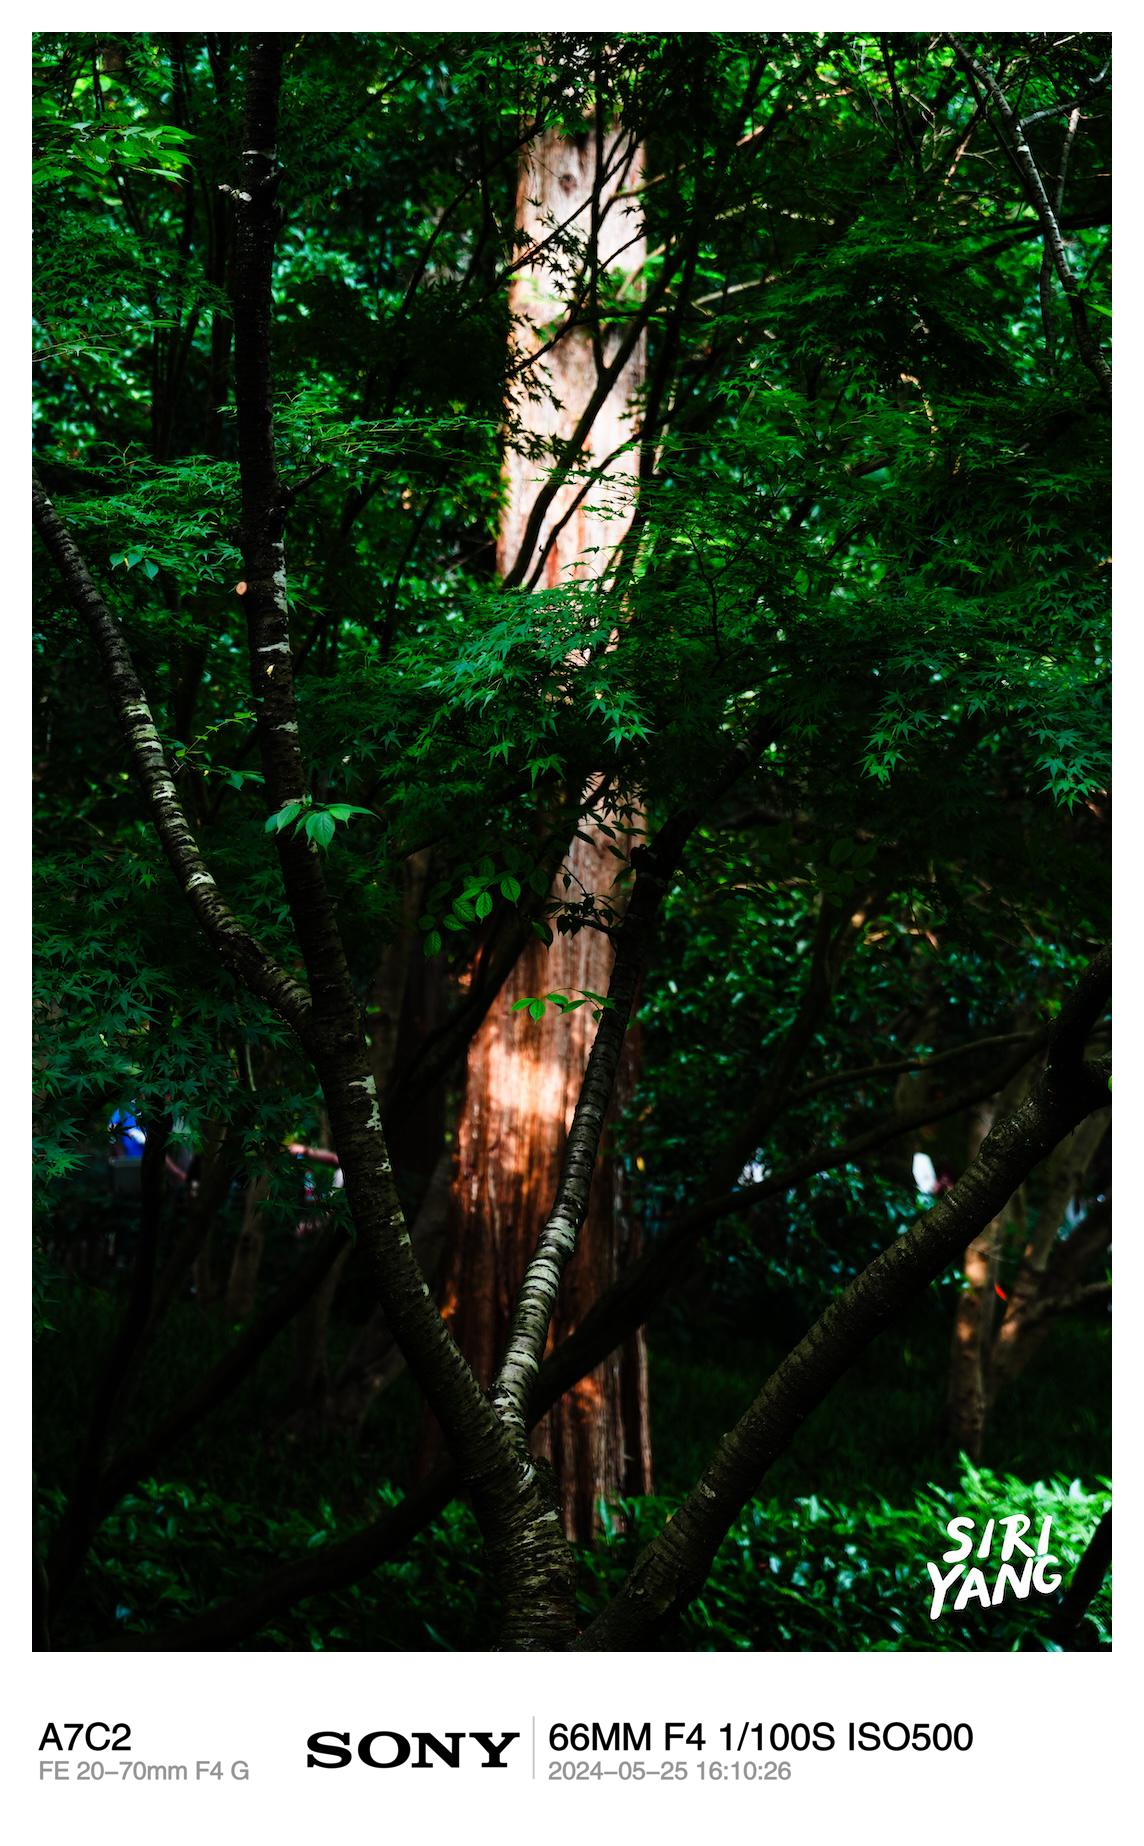
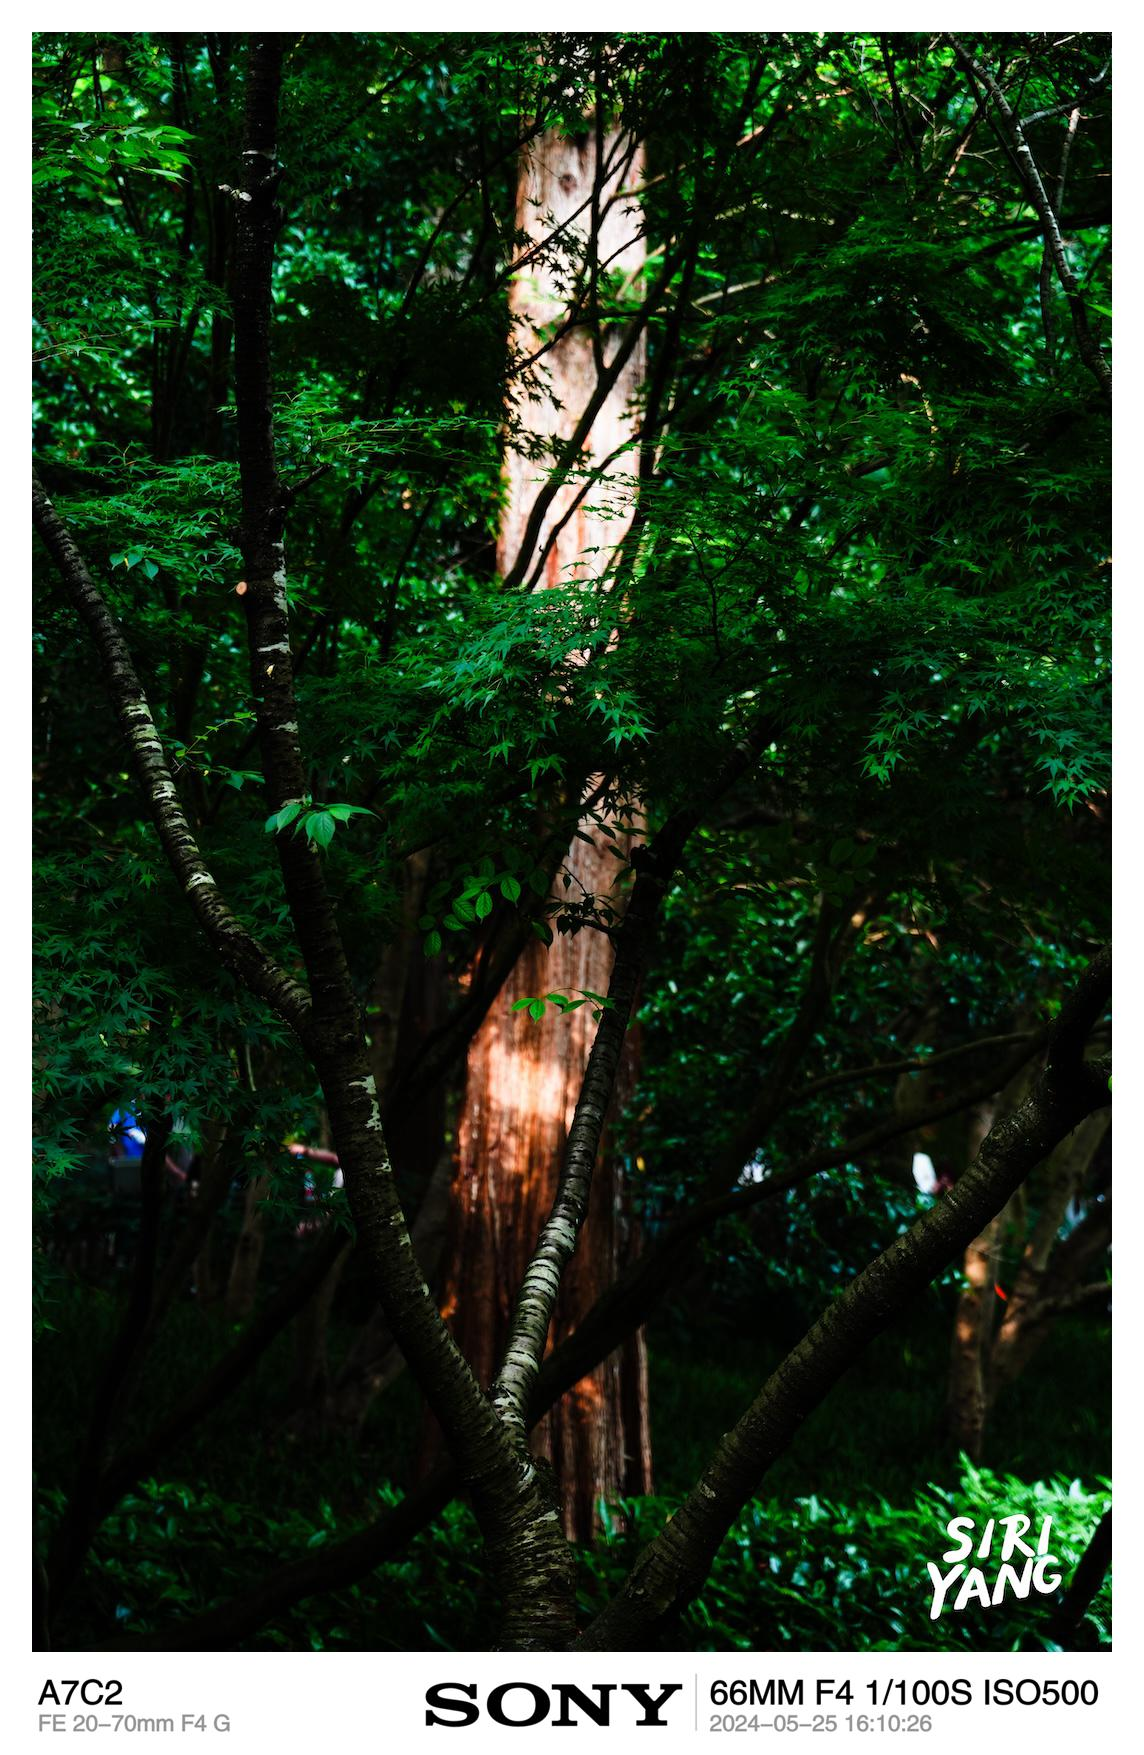
更新：更新代码逻辑

diff --git a/CameraWatermarker.py b/CameraWatermarker.py
@@ -2,11 +2,9 @@ import exifread
 from PIL import Image,ImageDraw, ImageFont
 
 
-def get_image_meta_info(img_file):
+def get_image_meta_info(img_file,str_map={}):
 
     meta_dic={}
-
-    str_map = {'ILCE-7CM2':'A7C2'}
 
     with open(img_file, 'rb') as img_file:
 
@@ -65,7 +63,7 @@ def get_image_meta_info(img_file):
         
     return meta_dic
 
-def camera_watermarker(img_file,output_dir,output_suffix,border=0.03):
+def camera_watermarker(img_file,output_dir='./',output_suffix='',str_map={},border=0.03):
     
     try:
         org_img=Image.open(img_file)
@@ -75,7 +73,7 @@ def camera_watermarker(img_file,output_dir,output_suffix,border=0.03):
     finally:
         pass
 
-    meta_dic=get_image_meta_info(img_file)
+    meta_dic=get_image_meta_info(img_file,str_map)
     print(meta_dic)
     # meta_dic['f_number']='F11'
     # meta_dic['iso'] = 'ISO12800'
@@ -86,16 +84,11 @@ def camera_watermarker(img_file,output_dir,output_suffix,border=0.03):
     org_img_h = org_img.size[1]
     border_w = int(org_img_w * border)
     wm_width = org_img_w # 原始宽度
-    wm_heigh = int(org_img_h*0.1) # 原始照片高度的 10%
+    wm_heigh = int(org_img_h*0.06) # 原始照片高度的百分比
     res_img_w = wm_width + border_w*2
     res_img_h = org_img_h+wm_heigh+border_w*2 # 原始高度+水印信息高度+1倍边框高度
 
     # print(img.format,img.size,img.mode)
-
-    res_img=Image.new(org_img.mode,(res_img_w,res_img_h),'white')
-
-    # 绘制原始图片
-    res_img.paste(org_img,(border_w,border_w))
 
     # 水印信息绘制
     # 字体参数配置
@@ -107,74 +100,100 @@ def camera_watermarker(img_file,output_dir,output_suffix,border=0.03):
     color2=(150,150,150)
     color3=(200,200,200)
 
-    # 设备型号
+    # 左侧水印信息绘制
+    left_wm_img_w = 800
+    left_wm_img_h = 250
+    left_wm_img=Image.new(org_img.mode,(left_wm_img_w,left_wm_img_h),'white')
+    left_wm_img_draw = ImageDraw.Draw(left_wm_img)
+
+     # 设备型号
     device_model_x = 20
     device_model_y = 20
-    device_model_w = len(meta_dic['device_model']) * font_size_1
+    device_model_w,device_model_h = left_wm_img_draw.textsize(meta_dic['device_model'],font1) 
 
     # 镜头型号
     lens_model_x = device_model_x
     lens_model_y = device_model_y+130
-    lens_model_w = len(meta_dic['lens_model']) * font_size_2
+    lens_model_w,lens_model_h = left_wm_img_draw.textsize(meta_dic['lens_model'],font2) 
 
-    # 左侧水印信息绘制
-    left_wm_img_width = 800
-    left_wm_img_heigh = 250
-    left_wm_img=Image.new(org_img.mode,(left_wm_img_width,left_wm_img_heigh),'white')
+    left_wm_img_w = 40 + (device_model_w if device_model_w>lens_model_w else lens_model_w)
+    left_wm_img=left_wm_img.resize((left_wm_img_w,left_wm_img_h))
     left_wm_img_draw = ImageDraw.Draw(left_wm_img)
+
     left_wm_img_draw.text((device_model_x, device_model_y), meta_dic['device_model'], font=font1,stroke_width=1, fill=color1)
     left_wm_img_draw.text((lens_model_x, lens_model_y), meta_dic['lens_model'], font=font2,stroke_width=1, fill=color2)
 
     # left_wm_img.show()
 
     # 右侧水印信息绘制
-    right_wm_img_width = 2600
-    right_wm_img_heigh = 250
-    right_wm_img=Image.new(org_img.mode,(right_wm_img_width,right_wm_img_heigh),'white')
+    right_wm_img_w = 2600
+    right_wm_img_h = 250
+    right_wm_img=Image.new(org_img.mode,(right_wm_img_w,right_wm_img_h),'white')
     right_wm_img_draw = ImageDraw.Draw(right_wm_img)
 
     # 绘制水印 logo
     img_sony_logo = Image.open('./src/sony_logo.jpg')
-    img_sony_logo_w = img_sony_logo.size[0]
-    img_sony_logo_h = img_sony_logo.size[1]
+    img_sony_logo_h = right_wm_img_h - 40
+    img_sony_logo_w = int(img_sony_logo.size[0] * img_sony_logo_h / img_sony_logo.size[1])
     img_sony_logo_x = 20
-    img_sony_logo_y = int((right_wm_img_heigh-img_sony_logo.size[1])/2)
-    right_wm_img.paste(img_sony_logo,(img_sony_logo_x,img_sony_logo_y))
+    img_sony_logo_y = 20
+    img_sony_logo = img_sony_logo.resize((img_sony_logo_w,img_sony_logo_h))
 
     # 绘制分割线
-    split_line_x= img_sony_logo_w+int(left_wm_img_heigh*0.2)
+    split_line_x= img_sony_logo_w+int(left_wm_img_h*0.2)
     split_line_y= 20
-    split_line_w= int(right_wm_img_heigh*0.02)
-    split_line_h= int(right_wm_img_heigh*0.8)
-    right_wm_img_draw.rectangle((split_line_x,split_line_y,split_line_x+split_line_w,split_line_y+split_line_h),fill=color3)
-
-    img_exposure_value_text = meta_dic['focal_length']+' '+meta_dic['f_number']+' '+meta_dic['exposure_time']+' '+meta_dic['iso']
+    split_line_w= int(right_wm_img_h*0.02)
+    split_line_h= int(right_wm_img_h*0.8)
 
     # 拍摄参数
-    img_exposure_value_x = split_line_x + int(left_wm_img_heigh*0.2)
+    img_exposure_value_text = meta_dic['focal_length']+' '+meta_dic['f_number']+' '+meta_dic['exposure_time']+' '+meta_dic['iso']
+    img_exposure_value_x = split_line_x + int(left_wm_img_h*0.2)
     img_exposure_value_y = device_model_y
-    right_wm_img_draw.text((img_exposure_value_x, img_exposure_value_y), img_exposure_value_text, font=font1,stroke_width=1, fill=color1)
+    img_exposure_value_w , img_exposure_value_h = right_wm_img_draw.textsize(img_exposure_value_text,font1)
 
     # 拍摄日期
     date_time_x = img_exposure_value_x
     date_time_y = lens_model_y
+    date_time_w , date_time_h = right_wm_img_draw.textsize(meta_dic['date_time'],font2)
+
+    right_wm_img_w = 40 + img_sony_logo_w + split_line_w + int(left_wm_img_h*0.4) + (img_exposure_value_w if img_exposure_value_w>date_time_w else date_time_w)
+    right_wm_img=right_wm_img.resize((right_wm_img_w,right_wm_img_h))
+    right_wm_img_draw = ImageDraw.Draw(right_wm_img)
+    
+    right_wm_img.paste(img_sony_logo,(img_sony_logo_x,img_sony_logo_y))   
+    right_wm_img_draw.rectangle((split_line_x,split_line_y,split_line_x+split_line_w,split_line_y+split_line_h),fill=color3)
+    right_wm_img_draw.text((img_exposure_value_x, img_exposure_value_y), img_exposure_value_text, font=font1,stroke_width=1, fill=color1)
     right_wm_img_draw.text((date_time_x, date_time_y), meta_dic['date_time'], font=font2,stroke_width=1, fill=color2)
 
     # right_wm_img.show()
 
-    # 绘制水印到输出图片
-    left_wm_img=left_wm_img.resize((int(left_wm_img_width*wm_heigh/left_wm_img_heigh),wm_heigh))
-    right_wm_img=right_wm_img.resize((int(right_wm_img_width*wm_heigh/right_wm_img_heigh),wm_heigh))
-    if left_wm_img.size[0] + right_wm_img.size[0] > wm_width :
-        new_wm_img = Image.new(org_img.mode,(left_wm_img.size[0] + right_wm_img.size[0] + border_w,wm_heigh),'white')
-        new_wm_img.paste(left_wm_img,(0,0))
-        new_wm_img.paste(right_wm_img,(left_wm_img.size[0] + border_w,0))
-        new_wm_img=new_wm_img.resize((wm_width,int(new_wm_img.size[1] * wm_width/new_wm_img.size[0])))
-        res_img.paste(new_wm_img,(border_w, int(border_w + org_img_h + (wm_heigh+border_w-new_wm_img.size[1])/2)))
-    else :
-        res_img.paste(left_wm_img,(border_w,int(border_w + org_img_h + (wm_heigh+border_w-wm_heigh)/2)))
-        res_img.paste(right_wm_img,(wm_width - border_w-right_wm_img.size[0],int(border_w + org_img_h + (wm_heigh+border_w-wm_heigh)/2)))
+    # 合并左右水印
+    left_wm_img_w = int(left_wm_img_w*wm_heigh/left_wm_img_h)
+    left_wm_img_h = wm_heigh
+    left_wm_img=left_wm_img.resize((left_wm_img_w,left_wm_img_h))
+    right_wm_img_w = int(right_wm_img_w*wm_heigh/right_wm_img_h)
+    right_wm_img_h = wm_heigh
+    right_wm_img=right_wm_img.resize((right_wm_img_w,right_wm_img_h))
 
+    mrg_wm_img_w = int((left_wm_img.size[0] + right_wm_img.size[0]) * 1.2)
+    mrg_wm_img = None
+    if mrg_wm_img_w > wm_width :
+        mrg_wm_img = Image.new(org_img.mode,(mrg_wm_img_w,wm_heigh),'white')
+        mrg_wm_img.paste(left_wm_img,(0,0))
+        mrg_wm_img.paste(right_wm_img,(mrg_wm_img_w - right_wm_img_w,0))
+        mrg_wm_img=mrg_wm_img.resize((wm_width,int(mrg_wm_img.size[1] * wm_width/mrg_wm_img.size[0])))
+    else :
+        mrg_wm_img = Image.new(org_img.mode,(wm_width,wm_heigh),'white')
+        mrg_wm_img.paste(left_wm_img,(0,0))
+        mrg_wm_img.paste(right_wm_img,(wm_width-right_wm_img_w,0))
+
+    # mrg_wm_img.show()
+
+    # 绘制输出图片
+    res_img_h = border_w * 2 + org_img_h + mrg_wm_img.size[1]
+    res_img=Image.new(org_img.mode,(res_img_w,res_img_h),'white')
+    res_img.paste(org_img,(border_w,border_w))
+    res_img.paste(mrg_wm_img,(border_w, int(border_w * 1.5 + org_img_h)))
     res_img.show()
 
     # 处理输出图片文件名和路径
@@ -182,13 +201,21 @@ def camera_watermarker(img_file,output_dir,output_suffix,border=0.03):
     input_file_type = img_file.split('/')[-1].split('.')[-1]
     output_file_name = input_file_name+output_suffix+'.'+input_file_type
     output_file_path = output_dir+output_file_name
-    print(output_file_path)
+    # print(output_file_path)
 
     # 保存图片
     res_img.save(output_file_path)
 
 if __name__ == '__main__':  
+
     img_file='./img/demo.jpg' # 原始图片
-    output_dir = './img/' # 输出文件夹
-    output_suffix = '_wm' # 输出文件名后缀 demo.jpg -> demo_wm.jpg
-    camera_watermarker(img_file,output_dir,output_suffix,0.03)
+
+    # 字符串映射
+    str_map = {'ILCE-7CM2':'A7C2'} # 将扩展信息中解析出的原始文本映射成你想要的数值
+
+    camera_watermarker(img_file,
+                       output_dir='./img/', # 输出文件夹
+                       output_suffix='_wm', # 输出文件名后缀 demo.jpg -> demo_wm.jpg
+                       str_map=str_map,
+                       border=0.03 # 边框宽度比率
+                       )
